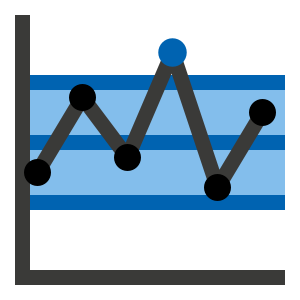
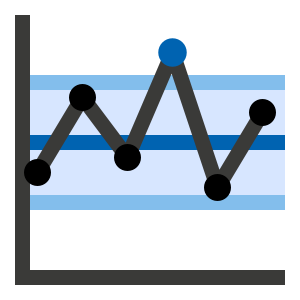
Lysn båndet og grænselinjerne
Båndet går fra #83beec til #d7e6ff, og grænselinjerne fra #0063b1 til
#83beec. Centerlinje, brudpunkt, serie og akse er uændrede.

Motivets kerne vinder på det. På den lysere flade står serien 9,04:1,
centerlinjen 4,87:1 og datapunkterne 16,65:1 mod båndet, hvor de før lå på
5,72:1, 3,08:1 og 10,54:1. Ved 20x20 er det den kerne, der bærer ikonet.

Prisen er, at grænselinjerne bliver bløde: 1,58:1 mod båndet og 1,99:1 mod
hvid. Båndets kant er derfor antydet frem for tegnet, og det er mindre
tydeligt, hvilken linje brudpunktet bryder. Punktet selv står klart.

Begge kompromiser står nu i assets/README.md med tal, så afvejningen ikke
skal regnes igen.

508 tests grønne.

diff --git a/assets/README.md b/assets/README.md
@@ -73,28 +73,30 @@ visualiseringsruden.
 
 | Element | Farve | Mod hvid | Mod mørk | Mod båndet |
 |---|---|---|---|---|
-| Bånd | `#83beec` | 1,99:1 | 8,16:1 | — |
-| Kontrolgrænser | `#0063b1` | 6,14:1 | 2,65:1 | 3,08:1 |
-| Centerlinje | `#0063b1` | 6,14:1 | 2,65:1 | 3,08:1 |
-| Punkt uden for kontrol | `#0063b1` | 6,14:1 | 2,65:1 | 3,08:1 |
-| Serie | `#3a3a38` | 11,40:1 | 1,43:1 | 5,72:1 |
-| Datapunkter | `#000000` | 21,00:1 | 1,29:1 | 10,54:1 |
+| Bånd | `#d7e6ff` | 1,26:1 | 12,89:1 | — |
+| Kontrolgrænser | `#83beec` | 1,99:1 | 8,16:1 | 1,58:1 |
+| Centerlinje | `#0063b1` | 6,14:1 | 2,65:1 | 4,87:1 |
+| Punkt uden for kontrol | `#0063b1` | 6,14:1 | 2,65:1 | — |
+| Serie | `#3a3a38` | 11,40:1 | 1,43:1 | 9,04:1 |
+| Datapunkter | `#000000` | 21,00:1 | 1,29:1 | 16,65:1 |
 | Akse | `#3a3a38` | 11,40:1 | 1,43:1 | — |
 
-## Mørkt tema er bevidst nedprioriteret
+## To bevidste kompromiser
 
-`#3a3a38` giver 1,43:1 mod en mørk baggrund. Aksen og den del af serien, der
-stikker op over grænselinjen, er derfor svage på mørkt tema. Båndet og de blå
-linjer står fint, og brudpunktet kan ses, så motivet er stadig læseligt — men
-det er tydeligt tegnet til en lys rude.
+**Grænselinjerne er svage.** De ligger 1,58:1 fra båndet og 1,99:1 fra hvid,
+så båndets kant er blød. Til gengæld står serien, centerlinjen og punkterne
+skarpt på den lyse flade — 9,04:1, 4,87:1 og 16,65:1 — og motivets kerne er
+det, der bærer ikonet ved 20×20. Konsekvensen er, at det er mindre tydeligt
+*hvilken* linje brudpunktet bryder; punktet selv er stadig klart.
 
-Det er et bevidst valg: at bruge Power BI's egne ikonfarver vejer tungere end
-at klare begge temaer lige godt, og ruden er lys i langt de fleste
-installationer.
+**Mørkt tema er nedprioriteret.** `#3a3a38` giver 1,43:1 mod en mørk baggrund,
+så aksen er svag dér. Båndet, centerlinjen og brudpunktet står stadig, så
+motivet er læseligt — men det er tegnet til en lys rude, og det er langt de
+fleste installationer.
 
 En tidligere version brugte mellemtoner, der klarede 3:1 i begge temaer, og en
-særlig lysere farve til den del af serien, der forlader båndet. Det er væk nu —
-med én serie-farve er den konstruktion overflødig.
+særlig lysere farve til den del af serien, der forlader båndet. Begge dele er
+væk: med Power BI's palet og én serie-farve er den konstruktion overflødig.
 
 ## Hvilken baggrund hvert element måles imod
 
@@ -106,11 +108,11 @@ uigennemsigtigt. Deres kontrast er den samme i begge temaer, og det er båndet,
 ikke sidens baggrund, de skal måles imod. Alle tre ligger over 3:1 dér.
 
 **Aksen, grænselinjerne og brudpunktet** rører den gennemsigtige baggrund og
-afhænger derfor af temaet. Det er dem, kompromiset ovenfor handler om.
+afhænger derfor af temaet. Det er dem, kompromiserne ovenfor handler om.
 
-**Båndet** er en baggrundsflade, og grænselinjerne er dens kant. Det giver 1,99:1
-mod hvid — bevidst under de 3:1, grafik ellers bør have, for at linjerne på det
-kan ses. De står 3,08:1 fri af det.
+**Båndet** er en baggrundsflade. Det giver 1,26:1 mod hvid — langt under de
+3:1, grafik ellers bør have, og det er med vilje: fladen skal bære serien, ikke
+konkurrere med den.
 
 Baggrunden er gennemsigtig. En uigennemsigtig hvid baggrund ser upåfaldende ud
 på lyst tema og lyser op som en lampe på mørkt.
